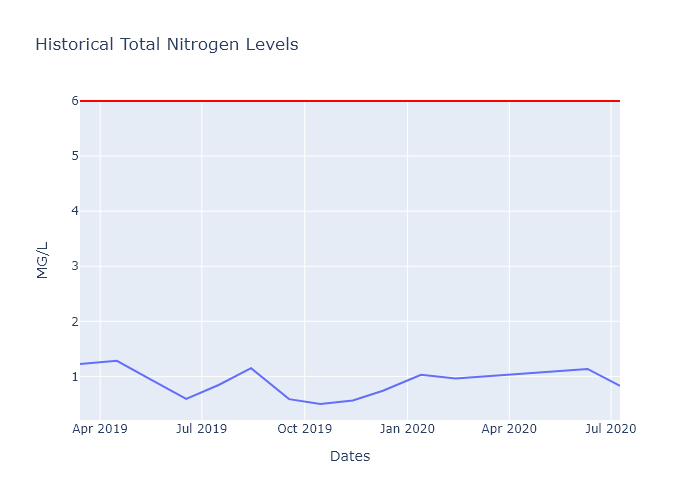
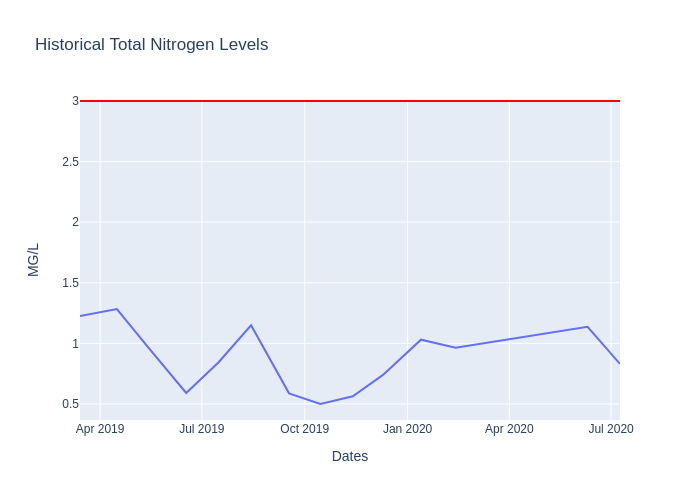
Deploy IzzyFad/NorthropGrumman-HIP to github.com/IzzyFad/NorthropGrumman-HIP.git:gh-pages

diff --git a/docs/index.html b/docs/index.html
@@ -32,7 +32,7 @@
         </div>
         <div id="safety-container">
           <div id="safety-yes-no">
-            <h2> NO </h2>
+            <h2> YES </h2>
           </div>
         </div>
       </div>
@@ -49,22 +49,23 @@
     <div id="levels">
       <div id="left-side">
           <p> CURRENT* LEVELS: </p>
+          <p> <span class="highlight"> WATER TEMPERATURE </span> 27.5 &deg;C </p>
           <p> <span class="highlight"> PHOSPHATE LEVELS </span>  0.0591 mg/L </p>
           <p> <span class="highlight"> TURBIDITY </span> 0.7 Meters  </p>
           <p> <span class="highlight"> OXYGEN LEVELS </span>  1.2 mg/L </p>
           <p> <span class="highlight"> NITRATE LEVELS </span>  0.83 mg/L  </p>
-          <p> <span class="highlight"> WATER TEMPERATURE </span> 27.5 &deg;C </p>
         </div>
         <div id="right-side">
           <p> Barriers/Max Levels: </p>
-          <p> <span class="highlight"> PHOSPHATE LEVELS: </span> 0.05 mg/L </p>
-          <p> <span class="highlight"> TURBIDITY: </span> 0.12 meters  </p>
-          <p> <span class="highlight"> OXYGEN LEVELS: </span> 5.0 mg/L </p>
-          <p> <span class="highlight"> NITRATE LEVELS: </span> 6 mg/L </p>
+          <p> <span class="highlight"> WATER TEMPERATURE </span> </p>
+          <p> <span class="highlight"> PHOSPHATE LEVELS </span> </p>
+          <p> <span class="highlight"> TURBIDITY </span> </p>
+          <p> <span class="highlight"> OXYGEN LEVELS </span> </p>
+          <p> <span class="highlight"> NITRATE LEVELS </span> </p>
         </div>
       </div>
     <div id="updated-as-of">
-      <p> *UPDATED AS OF  03-04-2021 <br />
+      <p> *UPDATED AS OF  03-12-2019 <br />
           SEE ABOUT PAGE FOR INFORMATION ON DATA SOURCE
       </p>
       <div id="disclaimer">

diff --git a/templates/index.html b/templates/index.html
@@ -32,7 +32,7 @@
         </div>
         <div id="safety-container">
           <div id="safety-yes-no">
-            <h2> $safety </h2>
+            <h2> YES </h2>
           </div>
         </div>
       </div>
@@ -49,18 +49,19 @@
     <div id="levels">
       <div id="left-side">
           <p> CURRENT* LEVELS: </p>
+          <p> <span class="highlight"> WATER TEMPERATURE </span> $watertemp &deg;C </p>
           <p> <span class="highlight"> PHOSPHATE LEVELS </span>  $phosphate mg/L </p>
           <p> <span class="highlight"> TURBIDITY </span> $turbidity Meters  </p>
           <p> <span class="highlight"> OXYGEN LEVELS </span>  $oxygen mg/L </p>
           <p> <span class="highlight"> NITRATE LEVELS </span>  $nitrate mg/L  </p>
-          <p> <span class="highlight"> WATER TEMPERATURE </span> $watertemp &deg;C </p>
         </div>
         <div id="right-side">
           <p> Barriers/Max Levels: </p>
-          <p> <span class="highlight"> PHOSPHATE LEVELS: </span> 0.05 mg/L </p>
-          <p> <span class="highlight"> TURBIDITY: </span> 0.12 meters  </p>
-          <p> <span class="highlight"> OXYGEN LEVELS: </span> 5.0 mg/L </p>
-          <p> <span class="highlight"> NITRATE LEVELS: </span> 6 mg/L </p>
+          <p> <span class="highlight"> WATER TEMPERATURE </span> </p>
+          <p> <span class="highlight"> PHOSPHATE LEVELS </span> </p>
+          <p> <span class="highlight"> TURBIDITY </span> </p>
+          <p> <span class="highlight"> OXYGEN LEVELS </span> </p>
+          <p> <span class="highlight"> NITRATE LEVELS </span> </p>
         </div>
       </div>
     <div id="updated-as-of">

diff --git a/jsondata.py b/jsondata.py
@@ -42,32 +42,25 @@ startDate = now - timedelta(days = 365*2)
 startFormat = startDate.strftime("%m-%d-%Y")
 endFormat = now.strftime("%m-%d-%Y")
 oxygen = retrieveData (startFormat, endFormat, 31, "Historical Oxygen Levels", "oxygen", 8, "MG/L", 5)
-oxygenIsSafe = oxygen[len(oxygen)-1]["MeasureValue"] >= 5
 fillParameterTemplate("oxygen.html", oxygen[len(oxygen)-1]["MeasureValue"], oxygen[len(oxygen)-1]["SampleDate"])
 
-nitrate = retrieveData (startFormat, endFormat, 109, "Historical Total Nitrogen Levels", "nitrate", 0.5, "MG/L", 6)
-nitrateIsSafe = nitrate[len(nitrate)-1]["MeasureValue"] <= 6
+nitrate = retrieveData (startFormat, endFormat, 109, "Historical Total Nitrogen Levels", "nitrate", 0.5, "MG/L", 3)
 fillParameterTemplate("nitrate.html", nitrate[len(nitrate)-1]["MeasureValue"], nitrate[len(nitrate)-1]["SampleDate"])
 
-phosphate = retrieveData (startFormat, endFormat, 114, "Historical Total Phosphorous Levels", "phosphate", 0.5, "MG/L", 0.05)
-phosphateIsSafe = phosphate[len(phosphate)-1]["MeasureValue"] <= 0.05
+phosphate = retrieveData (startFormat, endFormat, 114, "Historical Total Phosphorous Levels", "phosphate", 0.5, "MG/L")
 fillParameterTemplate("phosphate.html", phosphate[len(phosphate)-1]["MeasureValue"], phosphate[len(phosphate)-1]["SampleDate"])
 
-turbidity = retrieveData (startFormat, endFormat, 85, "Historical Turbidity Levels", "turbidity", 0.5, "Meters", 0.12)
-turbidityIsSafe = turbidity[len(turbidity)-1]["MeasureValue"] >= 0.12
+turbidity = retrieveData (startFormat, endFormat, 85, "Historical Turbidity Levels", "turbidity", 0.5, "Meters")
 fillParameterTemplate("turbidity.html", turbidity[len(turbidity)-1]["MeasureValue"], turbidity[len(turbidity)-1]["SampleDate"])
 
 watertempdata = retrieveData (startFormat, endFormat, 123, "Historical Water Temperature Levels", "temperature", 4, "Degrees Celsius")
 fillParameterTemplate("watertemp.html", watertempdata[len(watertempdata)-1]["MeasureValue"], watertempdata[len(watertempdata)-1]["SampleDate"])
 
-isSafe = oxygenIsSafe and nitrateIsSafe and phosphateIsSafe and turbidityIsSafe
-
 fillTemplate("index.html", {
-    "safety": "YES" if isSafe else "NO",
     "watertemp": watertempdata[len(watertempdata)-1]["MeasureValue"],
     "phosphate": phosphate[len(phosphate)-1]["MeasureValue"],
     "turbidity": turbidity[len(turbidity)-1]["MeasureValue"],
     "oxygen": oxygen[len(oxygen)-1]["MeasureValue"],
     "nitrate": nitrate[len(nitrate)-1]["MeasureValue"],
-    "date": endFormat
+    "date": startFormat
 })
